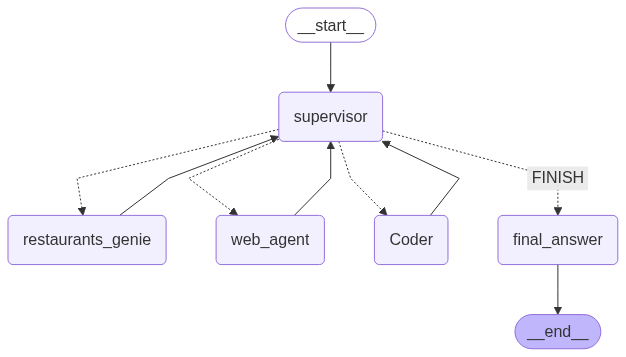
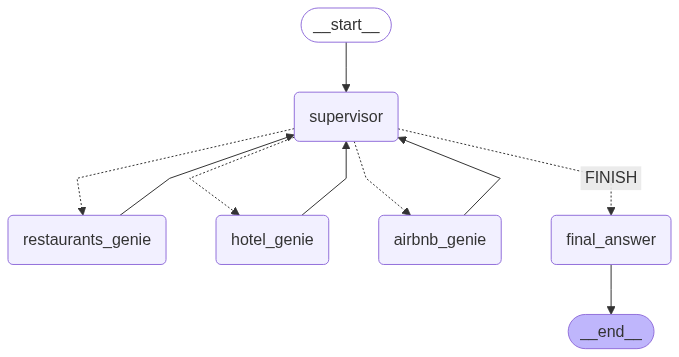
doc: update

diff --git a/README.md b/README.md
@@ -6,7 +6,7 @@
 📅 Event: Data and AI Summit
 
 🛠 Team: Wellness Pathway
-   - Deepak Sharma
+   - Deepak Sharma 
    - Shan Venugopal
    - Seng Chu
    - Ethan Ma
@@ -30,19 +30,14 @@ Databricks Genie Multi-Agent Framework powers the backend intelligence of Wellne
 ---------------------------
 🧩 Key Components
 ---------------------------
-1. User Interface (UI)
-Mobile-first design with voice and text input
-Accessibility-first UX (screen reader support, high contrast, large text)
-2. Databricks Genie Agents
-Query Agent: Interprets user intent and routes tasks
-Accommodation Agent: Searches hotels, Airbnbs, and hostels with accessibility filters
-Dining Agent: Recommends restaurants with wheelchair access, braille menus, etc.
-Compliance Agent: Verifies ADA or local accessibility compliance
-Feedback Agent: Collects and learns from user reviews and preferences
-3. Vector Search + RAG
-Embeds and indexes structured and unstructured data (e.g., reviews, property descriptions)
-Uses Retrieval-Augmented Generation (RAG) to provide context-aware answers
-4. LLM Integration
+
+1. Databricks Genie Agents
+Supervisor Agent: Interprets user intent and routes tasks and collects final answers
+Restaurant Agent: Searches restaurants with accessibility filters
+Hotel Agent: Recommends hotels with wheelchair access, braille menus, etc.
+Airbnb Agent: Verifies ADA or local accessibility compliance for Airbnb
+
+2. LLM Integration
 Powered by Llama for natural language understanding and generation
 Handles multi-turn conversations and follow-up questions
 
